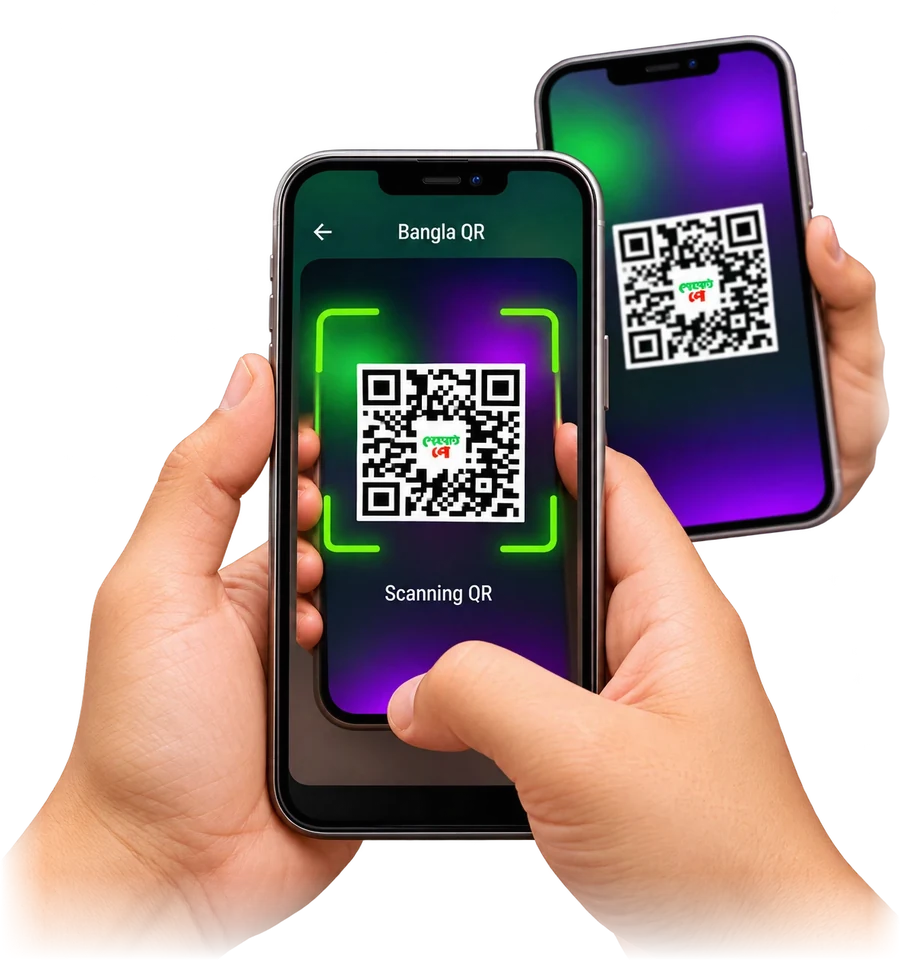
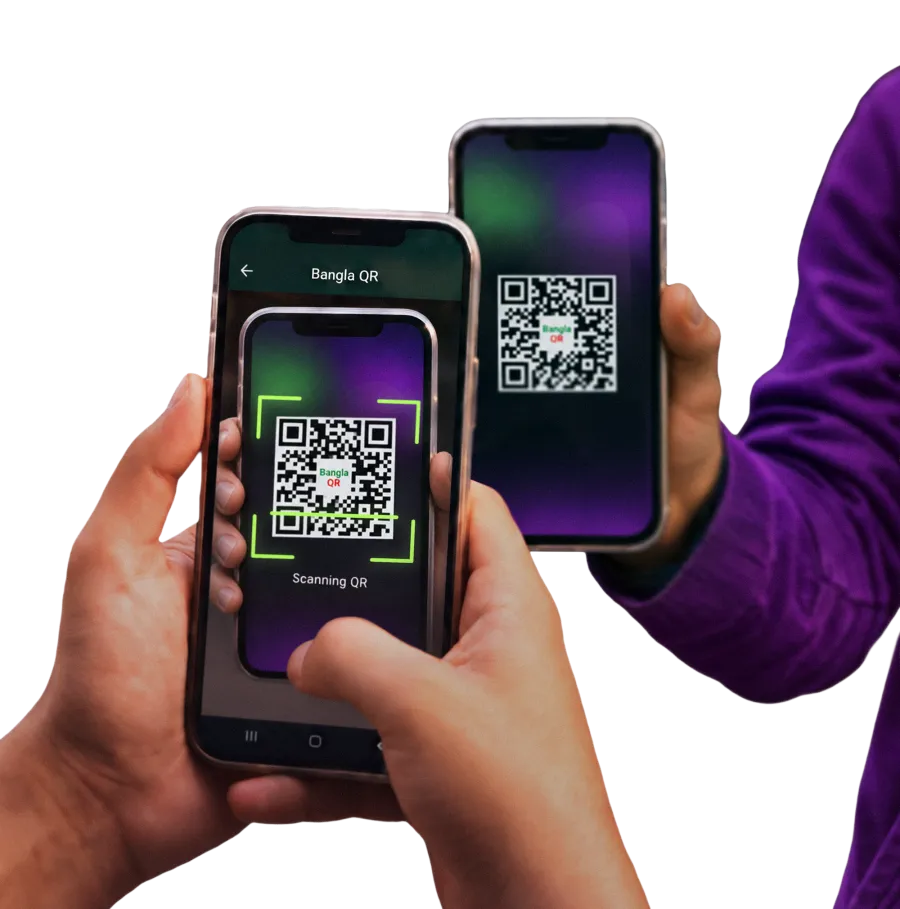
Home page: final website copy and new Bangla QR photo
- Update Bangla and English copy per the final copy doc: hero sub-line,
  trust line, stats, stats note, account heading and steps, card fee and
  delivery lines, add money, savings heading, DPS button, NOW Buddy, download.
- Stats show "Up to" / "সেভিংসে" / "DPS-এ" as a small prefix by the number.
- New Bangla QR photo, cropped and pinned to the tile's right and bottom
  edges with a faded left side so its cut edges don't show.

diff --git a/index.html b/index.html
@@ -230,7 +230,7 @@
       <div class="wrap hero-grid">
         <div class="hero-copy">
           <h1 data-i18n="hero.title">ব্যাংকিং চলুক <em>আপনার</em> ছন্দে</h1>
-          <p class="lead" data-i18n="hero.sub">শুধু NID আর একটা সেলফি — কয়েক মিনিটেই অ্যাকাউন্ট খোলা। কাগজপত্র নেই, লাইন নেই, প্রাথমিক জমাও লাগে না।</p>
+          <p class="lead" data-i18n="hero.sub">NID আর সেলফি দিয়ে মোবাইলেই খুলুন অ্যাকাউন্ট। শাখায় যেতে হয় না, খুলতে টাকাও লাগে না।</p>
 
           <div class="get-app">
             <div class="stores">
@@ -245,7 +245,7 @@
 
           <p class="trustline">
             <svg class="ic"><use href="#i-shield"/></svg>
-            <span data-i18n="hero.trust">বাংলাদেশ ব্যাংকের নিয়ম মেনে পরিচালিত</span>
+            <span data-i18n="hero.trust">বাংলাদেশ ব্যাংকের নীতিমালা অনুযায়ী পরিচালিত</span>
           </p>
         </div>
 
@@ -261,12 +261,12 @@
     <section class="facts" aria-label="Highlights">
       <div class="wrap">
         <ul class="facts-grid">
-          <li class="reveal"><b data-i18n="fact1.num">৳০</b><span data-i18n="fact1.label">প্রাথমিক জমা</span></li>
-          <li class="reveal"><b data-i18n="fact2.num">৪%</b><span data-i18n="fact2.label">পর্যন্ত সঞ্চয়ী মুনাফা</span></li>
-          <li class="reveal"><b data-i18n="fact3.num">৯%</b><span data-i18n="fact3.label">পর্যন্ত DPS মুনাফা</span></li>
+          <li class="reveal"><b data-i18n="fact1.num">৳০</b><span data-i18n="fact1.label">অ্যাকাউন্ট খোলার খরচ</span></li>
+          <li class="reveal"><b data-i18n="fact2.num"><small>সেভিংসে</small> ৪%</b><span data-i18n="fact2.label">পর্যন্ত মুনাফা</span></li>
+          <li class="reveal"><b data-i18n="fact3.num"><small>DPS-এ</small> ৯%</b><span data-i18n="fact3.label">পর্যন্ত মুনাফা</span></li>
           <li class="reveal"><b data-i18n="fact4.num">ফ্রি</b><span data-i18n="fact4.label">NPSB, BEFTN ও MFS ট্রান্সফার</span></li>
         </ul>
-        <p class="facts-note" data-i18n="facts.note">হার ও চার্জ পরিবর্তনযোগ্য। বিস্তারিত দেখুন <a href="https://primenow.ai/product-rates" target="_blank" rel="noopener">প্রোডাক্ট রেট</a> ও <a href="https://primenow.ai/schedule-of-charges" target="_blank" rel="noopener">চার্জের তালিকায়</a>।</p>
+        <p class="facts-note" data-i18n="facts.note">মুনাফার হার ও চার্জ পরিবর্তনযোগ্য। বিস্তারিত দেখুন <a href="https://primenow.ai/product-rates" target="_blank" rel="noopener">প্রোডাক্ট রেট</a> ও <a href="https://primenow.ai/schedule-of-charges" target="_blank" rel="noopener">চার্জের তালিকায়</a>।</p>
       </div>
     </section>
 
@@ -274,18 +274,18 @@
     <section class="section section--lav" id="account">
       <div class="wrap split">
         <div class="split-copy">
-          <h2 class="reveal" data-i18n="kyc.title">ব্রাঞ্চে না গিয়েই <em>অ্যাকাউন্ট</em> খুলুন</h2>
+          <h2 class="reveal" data-i18n="kyc.title">শাখায় না গিয়েই, মোবাইলেই <em>অ্যাকাউন্ট</em> খুলুন</h2>
           <p class="sub reveal" data-i18n="kyc.sub">বাংলাদেশ ব্যাংকের ই-কেওয়াইসি নীতিমালা মেনে পুরোটাই ডিজিটাল। ১৮ বছর বা তার বেশি বয়সী যেকোনো বাংলাদেশি নাগরিক খুলতে পারবেন।</p>
 
           <ol class="steps reveal" id="kyc-steps">
             <li><button type="button" class="step is-active" data-step="1" aria-current="step">
               <span class="step-n" data-i18n="kyc.n1">০১</span>
-              <span class="step-body"><b data-i18n="kyc.s1.t">অ্যাপ নিন, রেজিস্টার করুন</b><span data-i18n="kyc.s1.d">নাম, মোবাইল নম্বর আর একটা ইউজারনেম — শুরু এখানেই।</span></span>
+              <span class="step-body"><b data-i18n="kyc.s1.t">অ্যাপ ডাউনলোড করে রেজিস্টার করুন</b><span data-i18n="kyc.s1.d">নাম, মোবাইল নম্বর আর একটা ইউজারনেম — শুরু এখানেই।</span></span>
               <span class="step-bar" aria-hidden="true"></span>
             </button></li>
             <li><button type="button" class="step" data-step="2">
               <span class="step-n" data-i18n="kyc.n2">০২</span>
-              <span class="step-body"><b data-i18n="kyc.s2.t">NID স্ক্যান করুন</b><span data-i18n="kyc.s2.d">জাতীয় পরিচয়পত্রের সামনে ও পেছনের ছবি তুলুন।</span></span>
+              <span class="step-body"><b data-i18n="kyc.s2.t">NID-র সামনে ও পেছনের ছবি দিন</b><span data-i18n="kyc.s2.d">জাতীয় পরিচয়পত্রের সামনে ও পেছনের ছবি তুলুন।</span></span>
               <span class="step-bar" aria-hidden="true"></span>
             </button></li>
             <li><button type="button" class="step" data-step="3">
@@ -363,8 +363,8 @@
           <p class="sub reveal" data-i18n="card.sub">কার্ডের গায়ে নেই কোনো নম্বর, মেয়াদ বা CVV। সব তথ্য নিরাপদে থাকে শুধু আপনার অ্যাপে — কেউ উঁকি দিলেও কিছুই দেখতে পাবে না।</p>
           <ul class="feat-list reveal">
             <li><span class="fi"><svg class="ic"><use href="#i-tap"/></svg></span><span data-i18n="card.f2">ট্যাপ করেই পেমেন্ট — কন্ট্যাক্টলেস Mastercard</span></li>
-            <li><span class="fi"><svg class="ic"><use href="#i-percent"/></svg></span><span data-i18n="card.f5">বছরে ২৪টি লেনদেন করলেই বার্ষিক ফি মওকুফ</span></li>
-            <li><span class="fi"><svg class="ic"><use href="#i-truck"/></svg></span><span data-i18n="card.f4">ইস্যু ফি নেই, ৭ কর্মদিবসে ফ্রি হোম ডেলিভারি</span></li>
+            <li><span class="fi"><svg class="ic"><use href="#i-percent"/></svg></span><span data-i18n="card.f5">বছরে ২৪টি লেনদেন করলেই বার্ষিক চার্জ ফ্রি</span></li>
+            <li><span class="fi"><svg class="ic"><use href="#i-truck"/></svg></span><span data-i18n="card.f4">৭ কর্মদিবসে ফ্রি হোম ডেলিভারি</span></li>
           </ul>
           <a class="btn btn-lime reveal" href="#download" data-store="smart"><span data-i18n="card.cta">এখনই কার্ড নিন</span><svg class="ic"><use href="#i-arrow"/></svg></a>
         </div>
@@ -394,12 +394,12 @@
                 <li><span data-i18n="qr.s3">টাকা লিখে OTP দিন</span></li>
               </ol>
             </div>
-            <img class="b-qr-img" src="assets/bangla-qr-hands.webp" alt="" width="900" height="960" loading="lazy">
+            <img class="b-qr-img" src="assets/bangla-qr-hands.webp" alt="" width="900" height="909" loading="lazy">
           </article>
 
           <!-- Add money -->
           <article class="b-tile b-add reveal" id="add-money">
-            <h3 data-i18n="add.title">যেখান থেকে খুশি টাকা যোগ করুন</h3>
+            <h3 data-i18n="add.title">ব্যাংক, কার্ড বা MFS থেকে অ্যাড মানি করুন</h3>
             <ul class="chips">
               <li data-i18n="add.s.bank">ব্যাংক অ্যাকাউন্ট</li>
               <li data-i18n="add.s.card">কার্ড</li>
@@ -428,7 +428,7 @@
     <section class="section section--lav" id="savings">
       <div class="wrap split">
         <div class="split-copy">
-          <h2 class="reveal" data-i18n="sav.title">প্রতিটা স্বপ্নের জন্য <em>আলাদা পকেট</em></h2>
+          <h2 class="reveal" data-i18n="sav.title">প্রতিটি স্বপ্নের জন্য <em>আলাদা পকেট</em></h2>
           <p class="sub reveal" data-i18n="sav.sub">ঈদ, ট্রিপ কিংবা নতুন ল্যাপটপ — লক্ষ্য ঠিক করুন, কিস্তি কাটবে নিজে থেকেই। যতগুলো খুশি গোল খুলুন।</p>
 
           <!-- Savings pockets, as they look in the app: one row per goal -->
@@ -511,7 +511,7 @@
               <div><dt data-i18n="calc.result">মেয়াদ শেষে আনুমানিক পাবেন</dt><dd id="calc-total">৳০</dd></div>
             </dl>
             <p class="calc-note" data-i18n="calc.note">ফিক্সড DPS-এর বর্তমান হার অনুযায়ী আনুমানিক হিসাব, কর ও চার্জ বাদে। হার পরিবর্তনযোগ্য।</p>
-            <a class="btn btn-violet btn-block" href="#download" data-store="smart"><span data-i18n="calc.cta">অ্যাপে গোল সেট করুন</span><svg class="ic"><use href="#i-arrow"/></svg></a>
+            <a class="btn btn-violet btn-block" href="#download" data-store="smart"><span data-i18n="calc.cta">অ্যাপে DPS খুলুন</span><svg class="ic"><use href="#i-arrow"/></svg></a>
           </form>
         </div>
       </div>
@@ -545,7 +545,7 @@
         </div>
 
         <div class="split-copy">
-          <h2 class="reveal" data-i18n="buddy.title">হাই বলুন <em>NOW Buddy</em>-কে</h2>
+          <h2 class="reveal" data-i18n="buddy.title"><em>NOW Buddy</em>-কে হাই বলুন</h2>
           <p class="sub reveal" data-i18n="buddy.sub">আপনার ব্যাংকিং সঙ্গী। কার্ড চালু করা থেকে খরচের হিসাব — যেকোনো প্রশ্নের উত্তর মেলে অ্যাপের ভেতরেই।</p>
 
           <div class="chat reveal">
@@ -649,7 +649,7 @@
         <div class="final-copy">
           <h2 class="poster-title reveal">
             <span class="pt-line"><span class="pt-brush"><span class="pt-desk">SCAN</span><span class="pt-mob">TAP</span></span><span class="pt-brush pt-now">NOW</span></span>
-            <span class="pt-bubble"><span data-i18n="final.dl">ডাউনলোড করে নাও</span></span>
+            <span class="pt-bubble"><span data-i18n="final.dl">অ্যাপ ডাউনলোড করুন</span></span>
           </h2>
           <div class="get-app reveal">
             <div class="stores">

diff --git a/css/style.css b/css/style.css
@@ -374,6 +374,7 @@ html[lang="bn"] .hero h1 { font-size: clamp(2.6rem, 6vw, 4.7rem); }
 .facts-grid { display: grid; grid-template-columns: repeat(4, 1fr); gap: 16px; }
 .facts-grid li { display: flex; flex-direction: column; gap: 2px; padding-left: 18px; border-left: 2px solid rgba(19, 25, 39, .14); }
 .facts-grid b { font-family: var(--font-display); font-size: clamp(1.9rem, 3.4vw, 2.6rem); font-weight: 800; line-height: 1.1; }
+.facts-grid b small { font-size: .42em; font-weight: 700; vertical-align: .32em; margin-right: .1em; }
 .facts-grid span { font-weight: 600; font-size: .92rem; color: rgba(19, 25, 39, .78); }
 .facts-note { margin-top: 18px; font-size: .78rem; color: rgba(19, 25, 39, .66); }
 .facts-note a { font-weight: 600; }
@@ -496,7 +497,7 @@ html[lang="bn"] .hero h1 { font-size: clamp(2.6rem, 6vw, 4.7rem); }
 .head-split { position: relative; display: grid; grid-template-columns: 1.1fr .9fr; gap: 20px 64px; align-items: end; margin-bottom: clamp(36px, 5vw, 56px); }
 .head-split .sub { margin-top: 0; }
 .bento { position: relative; display: grid; grid-template-columns: repeat(12, 1fr); gap: 20px; }
-.b-tile { position: relative; overflow: hidden; border-radius: 32px; padding: clamp(24px, 3vw, 36px); }
+.b-tile { --pad: clamp(24px, 3vw, 36px); position: relative; overflow: hidden; border-radius: 32px; padding: var(--pad); }
 .b-tile h3 { font-size: clamp(1.4rem, 2.4vw, 1.95rem); margin-top: 0; }
 /* inline highlight: "Bangla QR" inside the QR heading */
 .b-qr h3 mark { background: var(--lime); color: var(--ink); padding: 0 .28em; border-radius: 8px; -webkit-box-decoration-break: clone; box-decoration-break: clone; }
@@ -514,7 +515,9 @@ html[lang="bn"] .hero h1 { font-size: clamp(2.6rem, 6vw, 4.7rem); }
 .flow li { counter-increment: f; display: inline-flex; align-items: center; gap: 8px; padding: 6px 14px 6px 6px; border-radius: 999px; background: rgba(255,255,255,.1); border: 1px solid rgba(255,255,255,.16); font-size: .88rem; font-weight: 600; }
 .flow li::before { content: counter(f); width: 24px; height: 24px; flex: none; border-radius: 50%; display: grid; place-items: center; background: var(--lime); color: var(--ink); font-size: .78rem; font-weight: 800; }
 html[lang="bn"] .flow li::before { content: counter(f, bengali); }
-.b-qr-img { width: min(78%, 400px); margin-top: auto; align-self: flex-end; filter: drop-shadow(0 30px 40px rgba(10, 0, 50, .5)); }
+/* The photo is cut off at its right edge (sleeve) and bottom (hands): pin those edges to the tile's
+   right and bottom edges, and fade the left side, so no cut line shows inside the tile. */
+.b-qr-img { width: min(88%, 470px); margin-top: auto; margin-right: calc(-1 * var(--pad)); align-self: flex-end; -webkit-mask-image: linear-gradient(to right, transparent 0, #000 16%); mask-image: linear-gradient(to right, transparent 0, #000 16%); }
 
 .b-add { grid-column: span 5; background: var(--lav); }
 .b-add { display: flex; flex-direction: column; }
@@ -804,7 +807,7 @@ main > .section, .final, .footer { content-visibility: auto; contain-intrinsic-s
   .nav a { padding: 8px 9px; font-size: .86rem; }
   .b-qr { grid-column: span 12; grid-row: auto; min-height: 0; display: grid; grid-template-columns: 1fr 1fr; gap: 24px; align-items: end; }
   .b-qr .b-copy { align-self: center; padding-bottom: 36px; }
-  .b-qr-img { align-self: end; margin: 0; width: 100%; }
+  .b-qr-img { align-self: end; justify-self: end; margin: 0 calc(-1 * var(--pad)) 0 0; width: calc(100% + var(--pad)); }
   .b-add, .b-bills { grid-column: span 6; }
 }
 
@@ -881,7 +884,7 @@ main > .section, .final, .footer { content-visibility: auto; contain-intrinsic-s
   .hero-card--orange { right: 2%; top: 34%; }
   .b-qr { grid-template-columns: 1fr; }
   .b-qr .b-copy { padding-bottom: 8px; }
-  .b-qr-img { max-width: 380px; margin: 0 auto; }
+  .b-qr-img { width: min(100%, 420px); max-width: none; margin: 0 calc(-1 * var(--pad)) 0 auto; }
   .b-add, .b-bills { grid-column: span 12; }
   #calc .seg button { padding-inline: 4px; font-size: .8rem; white-space: nowrap; }
   .layers { padding: 2px 16px; }

diff --git a/js/i18n.js b/js/i18n.js
@@ -15,28 +15,28 @@ window.PN_I18N = {
     'nav.security': 'Security',
 
     'hero.title': 'Banking that moves with <em>YOU</em>',
-    'hero.sub': 'Just your NID and a selfie, and your account is open in minutes. No paperwork, no queues, no initial deposit.',
+    'hero.sub': 'Open your account from your phone with your NID and a selfie. No branch visits, no initial deposit needed.',
     'qr.label': 'Scan with your phone camera to get the app',
     'hero.trust': 'Operated under Bangladesh Bank regulations',
 
     'fact1.num': '৳0',
-    'fact1.label': 'initial deposit',
-    'fact2.num': '4%',
-    'fact2.label': 'max. interest on savings',
-    'fact3.num': '9%',
-    'fact3.label': 'max. interest on DPS',
+    'fact1.label': 'deposit to open an account',
+    'fact2.num': '<small>Up to</small> 4%',
+    'fact2.label': 'interest on savings',
+    'fact3.num': '<small>Up to</small> 9%',
+    'fact3.label': 'interest on DPS',
     'fact4.num': 'Free',
     'fact4.label': 'NPSB, BEFTN & MFS transfers',
-    'facts.note': 'Rates and charges may change. See <a href="https://primenow.ai/product-rates" target="_blank" rel="noopener">product rates</a> and the <a href="https://primenow.ai/schedule-of-charges" target="_blank" rel="noopener">schedule of charges</a>.',
+    'facts.note': 'Interest rates and charges may change. See <a href="https://primenow.ai/product-rates" target="_blank" rel="noopener">product rates</a> and the <a href="https://primenow.ai/schedule-of-charges" target="_blank" rel="noopener">schedule of charges</a>.',
 
-    'kyc.title': 'Open an <em>account</em> without visiting a branch',
+    'kyc.title': 'Open an <em>account</em> on your phone, no branch visit needed',
     'kyc.sub': "Fully digital, following Bangladesh Bank's e-KYC guidelines. Any Bangladeshi citizen aged 18 or over can open one.",
     'kyc.n1': '01',
     'kyc.n2': '02',
     'kyc.n3': '03',
-    'kyc.s1.t': 'Get the app, register',
+    'kyc.s1.t': 'Download the app and register',
     'kyc.s1.d': 'Your name, mobile number and a username. That is the whole start.',
-    'kyc.s2.t': 'Scan your NID',
+    'kyc.s2.t': 'Add photos of the front and back of your NID',
     'kyc.s2.d': 'Snap the front and back of your national ID card.',
     'kyc.s3.t': 'Take a live selfie',
     'kyc.s3.d': "Face verification confirms it's really you.",
@@ -56,12 +56,12 @@ window.PN_I18N = {
     'card.title': "Bangladesh's first <em>numberless</em> card",
     'card.sub': 'No card number, expiry or CVV printed on it. Your details stay safely inside your app, so a peek over your shoulder reveals nothing.',
     'card.f2': 'Tap to pay, contactless Mastercard',
-    'card.f5': 'Annual fee waived when you make 24 transactions a year',
-    'card.f4': 'No issuance fee, free home delivery in 7 working days',
+    'card.f5': 'No annual charge with 24 transactions a year',
+    'card.f4': 'Free home delivery in 7 working days',
     'card.cta': 'Get your card now',
 
     'money.title': 'Moving money, minus the <em>hassle</em>',
-    'add.title': 'Top up from wherever you like',
+    'add.title': 'Add money from a bank, card or MFS',
     'add.fee1': 'Free',
     'add.s.bank': 'Bank account',
     'add.s.card': 'Card',
@@ -116,7 +116,7 @@ window.PN_I18N = {
     'calc.profit': 'Estimated interest',
     'calc.rate': 'Interest rate',
     'calc.note': 'Estimate based on current Fixed DPS rates, before tax and charges. Rates may change.',
-    'calc.cta': 'Set your goal in the app',
+    'calc.cta': 'Open a DPS in the app',
 
     'buddy.p1': 'Answers in plain language',
     'buddy.p2': 'Smart tips on your spending',
